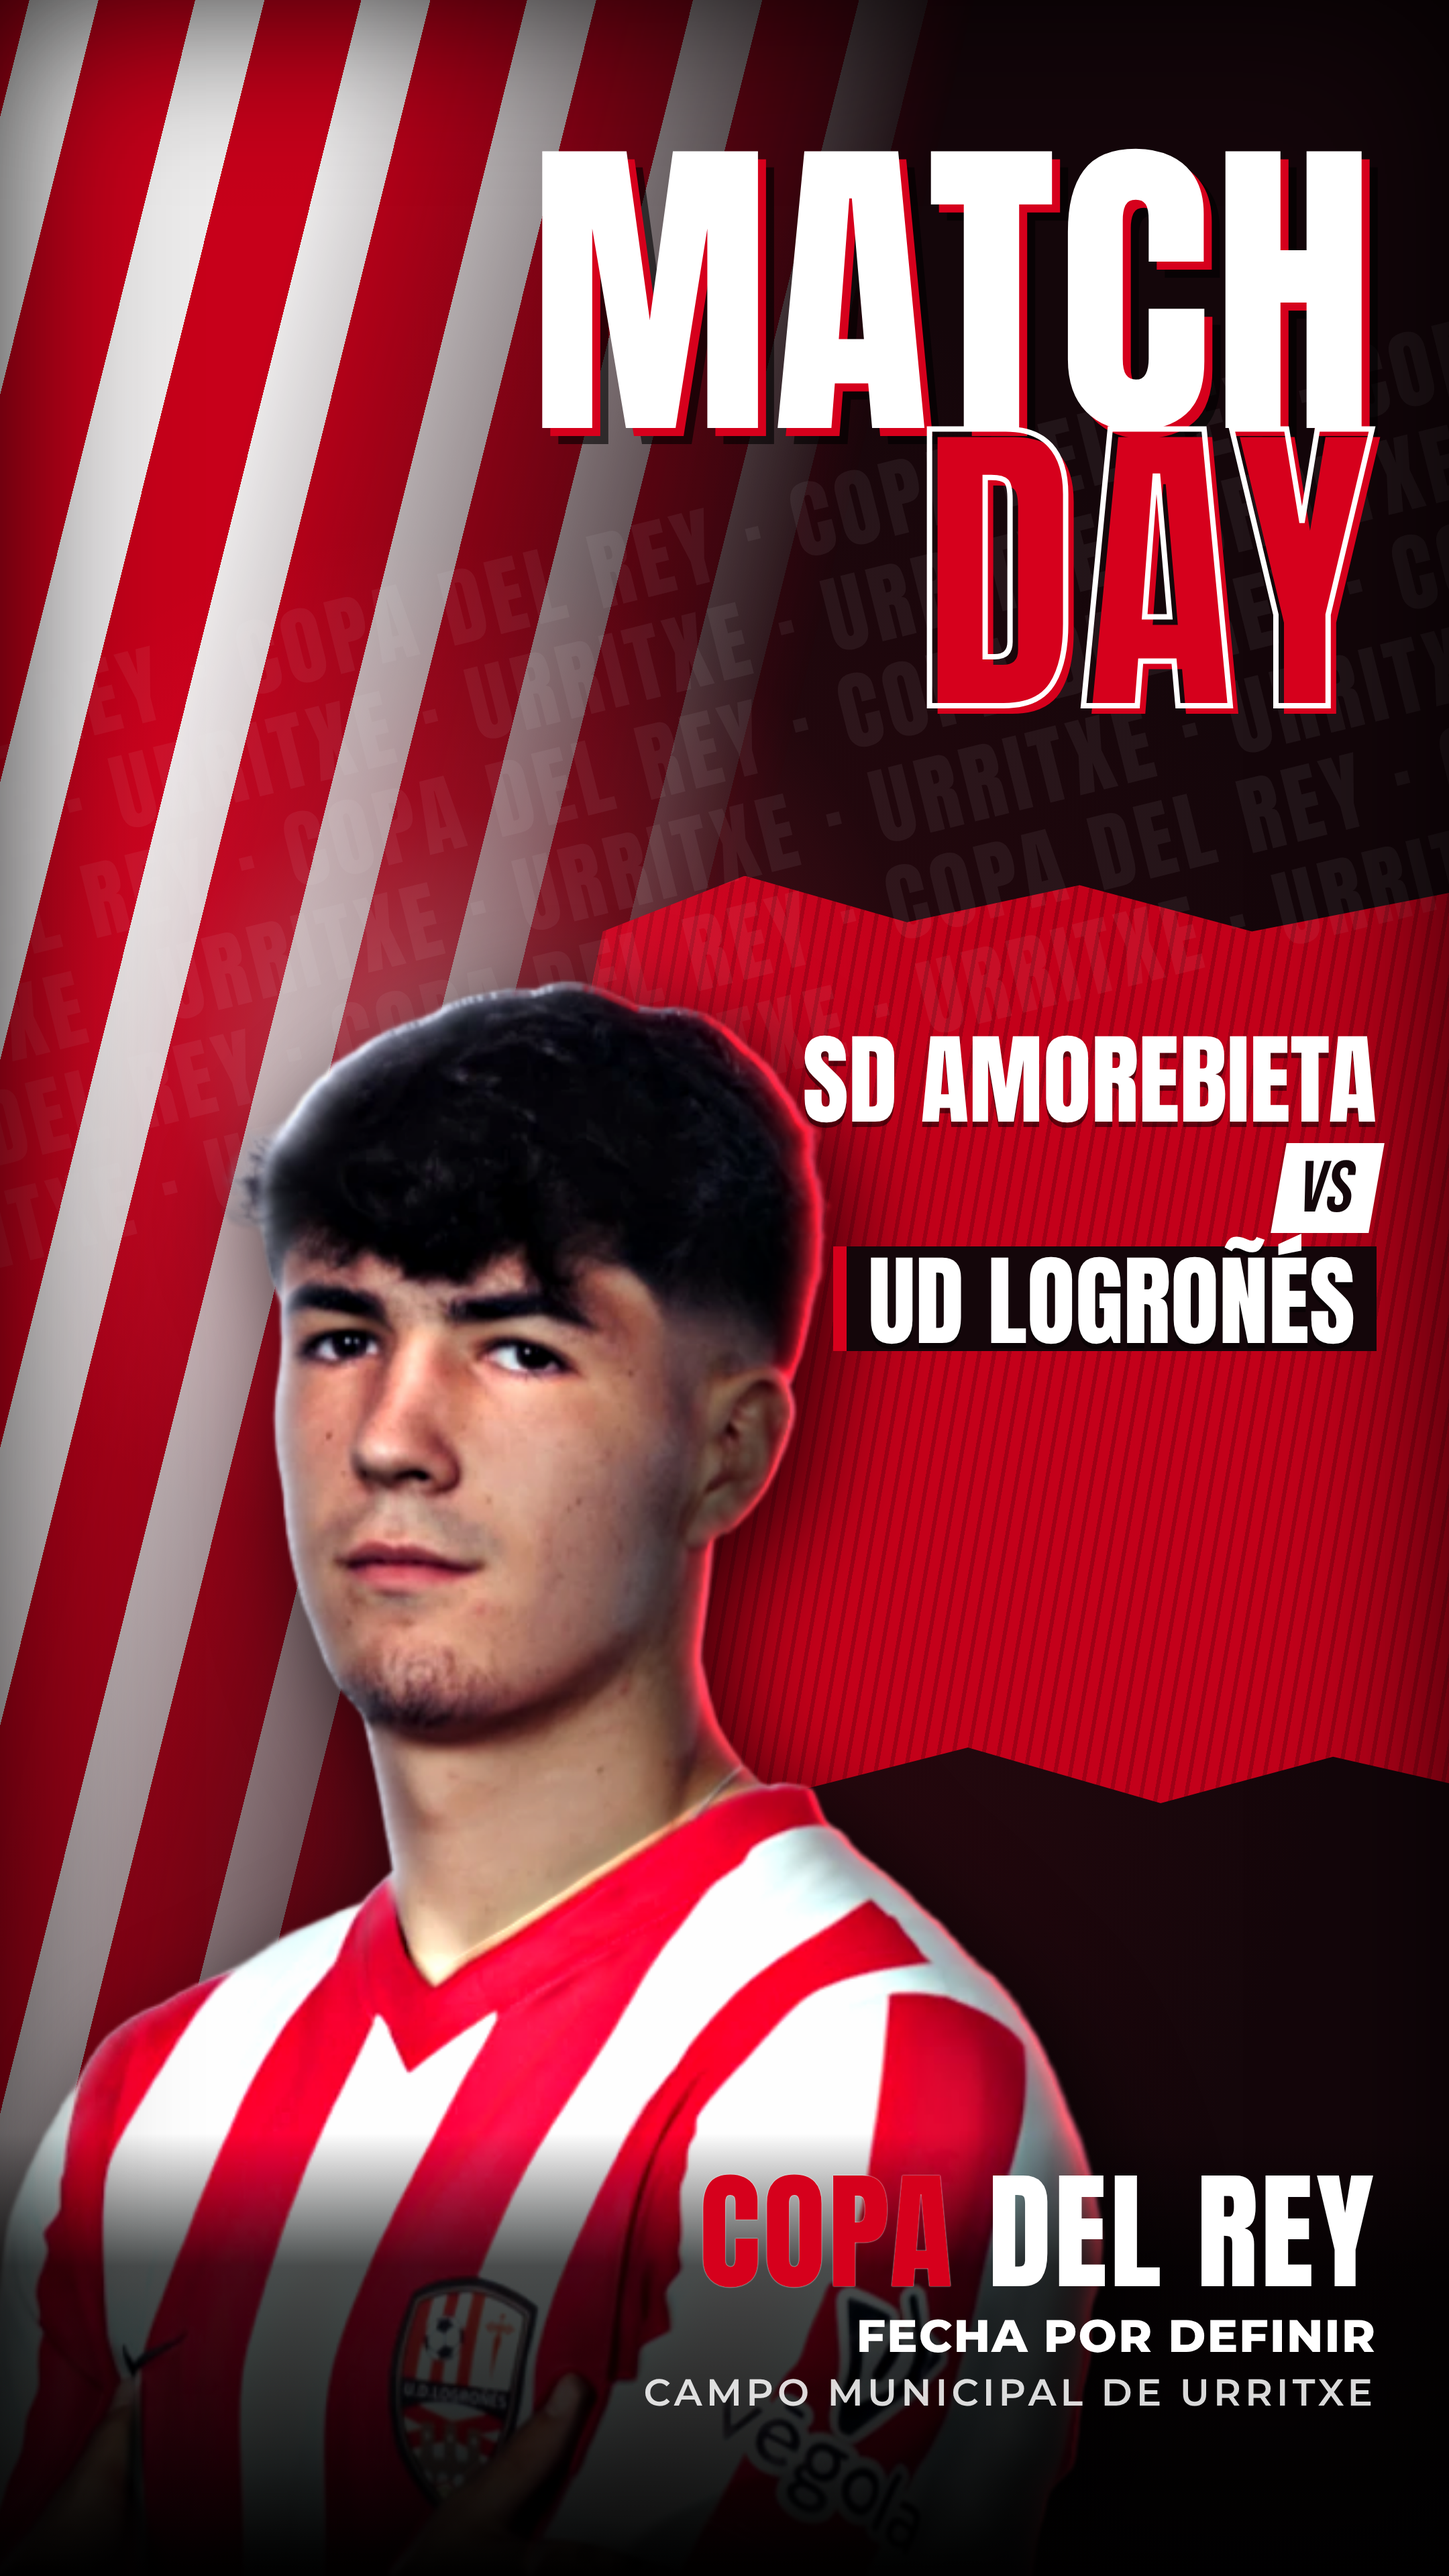
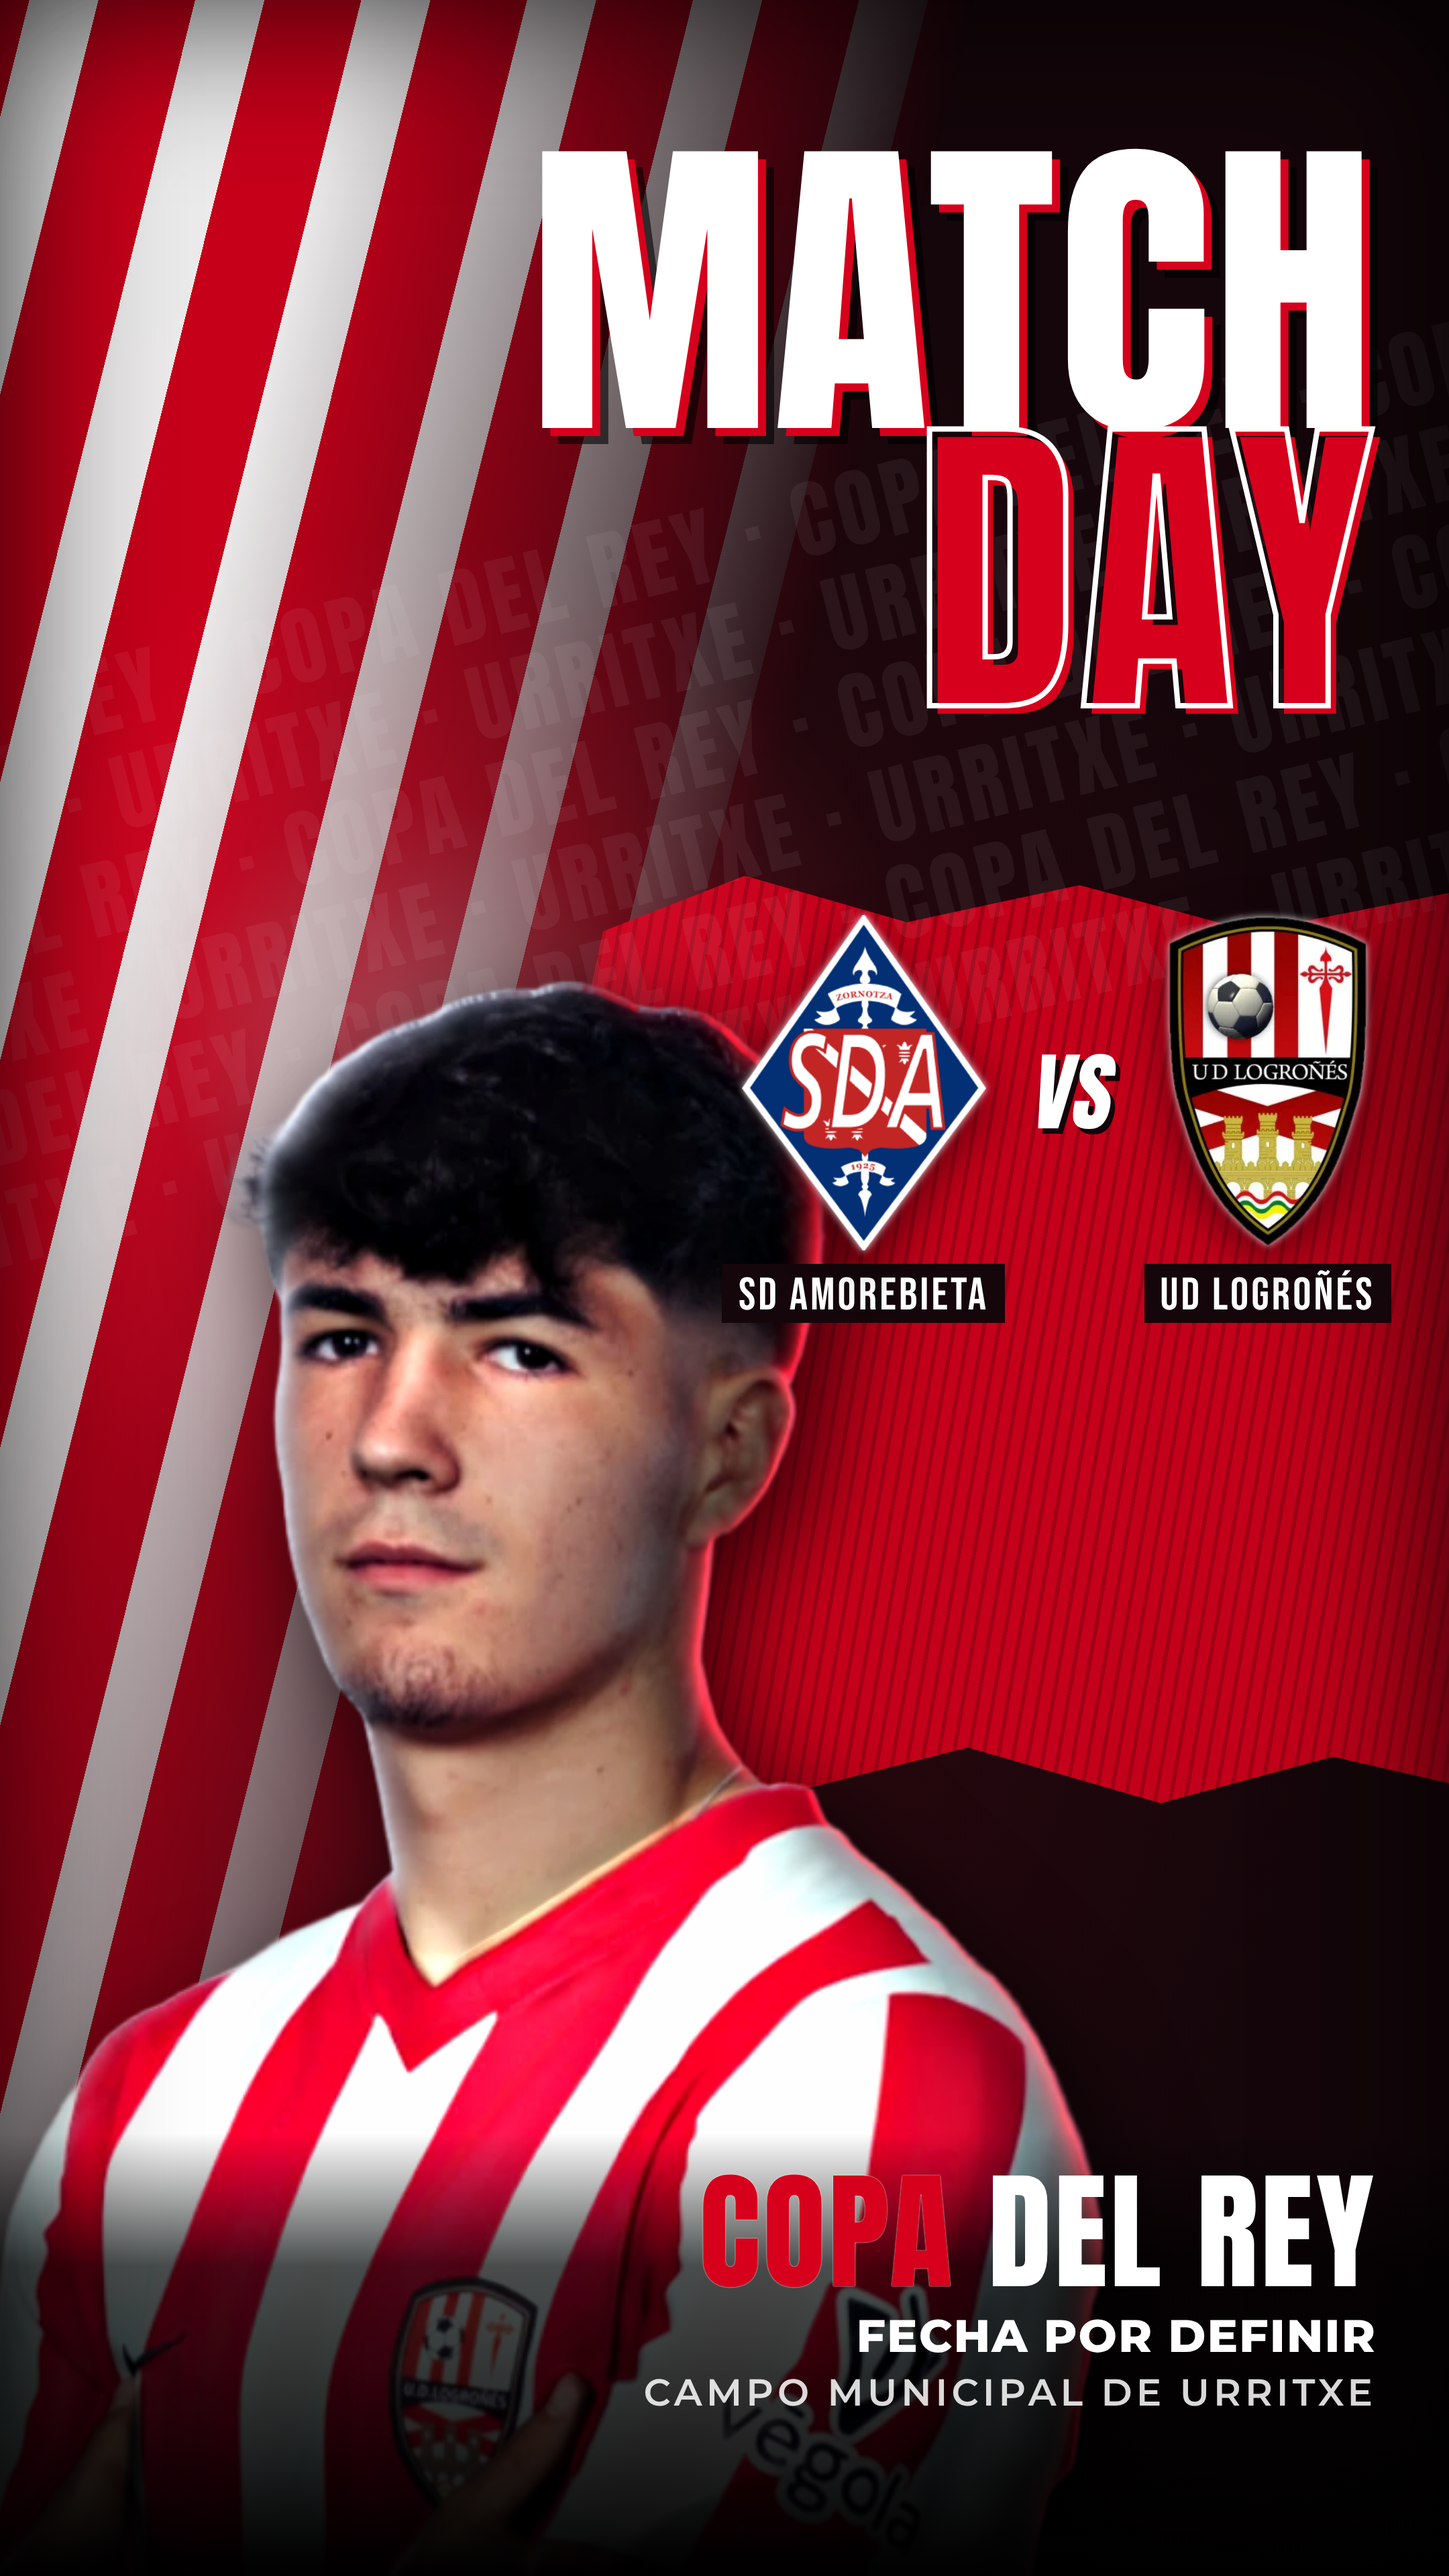
Match Day Logroñés: escudos de ambos equipos en lugar de los nombres
Claude-Session: https://claude.ai/code/session_01Q54DXVH7GopsR3mpjPBNRA

Changed region(s): [[0.4963, 0.3438, 0.9616, 0.5312]]

diff --git a/miniaturero/salida/2026-11-01_matchday-logrones/proyecto/matchday.html b/miniaturero/salida/2026-11-01_matchday-logrones/proyecto/matchday.html
@@ -51,11 +51,14 @@
   .titulo span { display: block; }
   .titulo .hueco { color: transparent; -webkit-text-stroke: 4px var(--blanco); text-shadow: 6px 6px 0 var(--rojo); }
 
-  .equipos { position: absolute; right: 5%; top: 44%; text-align: right; color: var(--blanco); }
-  .equipos .eq { font-size: 74px; line-height: 1; text-shadow: 0 4px 0 rgba(0,0,0,.5); }
-  .equipos .vs { font-family: "Bebas"; font-size: 54px; color: var(--fondo); background: var(--blanco);
-    display: inline-block; padding: 2px 16px 0; margin: 10px 0; transform: skew(-10deg); }
-  .equipos .nuestro { color: var(--blanco); background: var(--fondo); display: inline-block; padding: 4px 16px 0; border-left: 10px solid var(--rojo); }
+  /* escudos (aportados por el usuario) */
+  .equipos { position: absolute; right: 4%; top: 41%; display: flex; align-items: center; gap: 22px; }
+  .equipos .club { display: flex; flex-direction: column; align-items: center; gap: 10px; }
+  .equipos .club img { height: 250px; filter: drop-shadow(0 0 3px rgba(255,255,255,.9)) drop-shadow(0 12px 18px rgba(0,0,0,.55)); }
+  .equipos .club span { font-family: "Bebas"; font-size: 34px; letter-spacing: 2px; color: var(--blanco);
+    background: var(--fondo); padding: 3px 12px 0; }
+  .equipos .vs { font-family: "Anton"; font-size: 64px; color: var(--blanco); transform: skew(-10deg);
+    text-shadow: 4px 4px 0 var(--fondo); margin-bottom: 40px; }
 
   .pie { position: absolute; left: 0; right: 0; bottom: 0; padding: 26px 5% 34px; text-align: right;
     background: linear-gradient(0deg, rgba(0,0,0,.92) 0%, rgba(0,0,0,.7) 70%, transparent 100%); color: var(--blanco); }
@@ -76,7 +79,7 @@
   /* formato vertical 9:16: más aire */
   @media (min-aspect-ratio: 0/1) and (max-aspect-ratio: 10/16) {
     .titulo { top: 6%; font-size: 240px; }
-    .equipos { top: 40%; }
+    .equipos { top: 35.5%; }
     .jugador { height: 62%; }
     .nombre { bottom: 9%; }
     .pie { padding-bottom: 120px; }   /* margen para la interfaz de stories */
@@ -100,9 +103,9 @@
   <div class="titulo"><span>MATCH</span><span class="hueco">DAY</span></div>
 
   <div class="equipos">
-    <div class="eq">SD AMOREBIETA</div>
-    <div class="vs">VS</div><br>
-    <div class="eq nuestro">UD LOGROÑÉS</div>
+    <div class="club"><img src="img/escudo_amorebieta.png" alt="SD Amorebieta"><span>SD AMOREBIETA</span></div>
+    <div class="vs">VS</div>
+    <div class="club"><img src="img/escudo_logrones.png" alt="UD Logroñés"><span>UD LOGROÑÉS</span></div>
   </div>
 
   <div class="pie">

diff --git a/miniaturero/salida/2026-11-01_matchday-logrones/notas.md b/miniaturero/salida/2026-11-01_matchday-logrones/notas.md
@@ -8,7 +8,7 @@
 - **Iluminación (3/11):** `mini.py iluminar` sobre el recorte → `proyecto/img/jugador_iluminado.png`: luz principal suave desde arriba a la izquierda, contorno blanco frío a la izquierda (pelo, hombro, brazo) que pasa a contorno rojo a la derecha, más contraste local y la parte de abajo fundida en sombra. En el HTML: contraluz rojo/blanco detrás de la cabeza y sombra proyectada. Revisión: 1) poco visible → más intensa; 2) se cortaba blanco/rojo de golpe sobre el pelo → transición gradual y cálculo con margen; 3) OK.
 - **Iluminación 3D (4/11):** a petición ("iluminación profesional de verdad"), la versión 2D se sustituye por reiluminación con relieve: Depth Anything V2 Small → normales → foco principal arriba-izquierda, relleno suave a la derecha, contraluz rojo detrás-derecha y blanco frío detrás-izquierda, brillo especular suave. Revisión: 1) velo rosado en la camiseta → contraluces solo en los bordes; 2) franja recta abajo y blancos grises → quitado el oscurecido duplicado; 3) halo rosa CSS y mancha en el pelo → solo sombra proyectada y brillo limitado; 4) OK.
 - **Fecha (4/11):** el usuario indica que el partido se ha suspendido → "MIÉ 4 NOV | 20:00 H" sustituido por "FECHA POR DEFINIR" (se quita también la hora). Se mantienen el campo y la competición.
-- **Escudos:** no se han añadido aparte. Se pueden añadir si los aportas y confirmas que puedes usarlos.
+- **Escudos (4/11):** aportados por el usuario (`entrada/escudo_amorebieta.png`, `entrada/escudo_logrones.png`) para usarlos en el póster. Al del Logroñés se le quitó el fondo blanco (relleno desde las esquinas; el escudo queda intacto). Sustituyen a los nombres grandes; debajo de cada uno va el nombre en pequeño. En 9:16 se subieron para no tocar la cabeza del jugador.
 - **Revisión:** 1) el nombre del jugador abajo quedaba apagado y competía con "COPA DEL REY" → eliminado (pediste solo al jugador). 2) OK.
 
 ## Archivos
